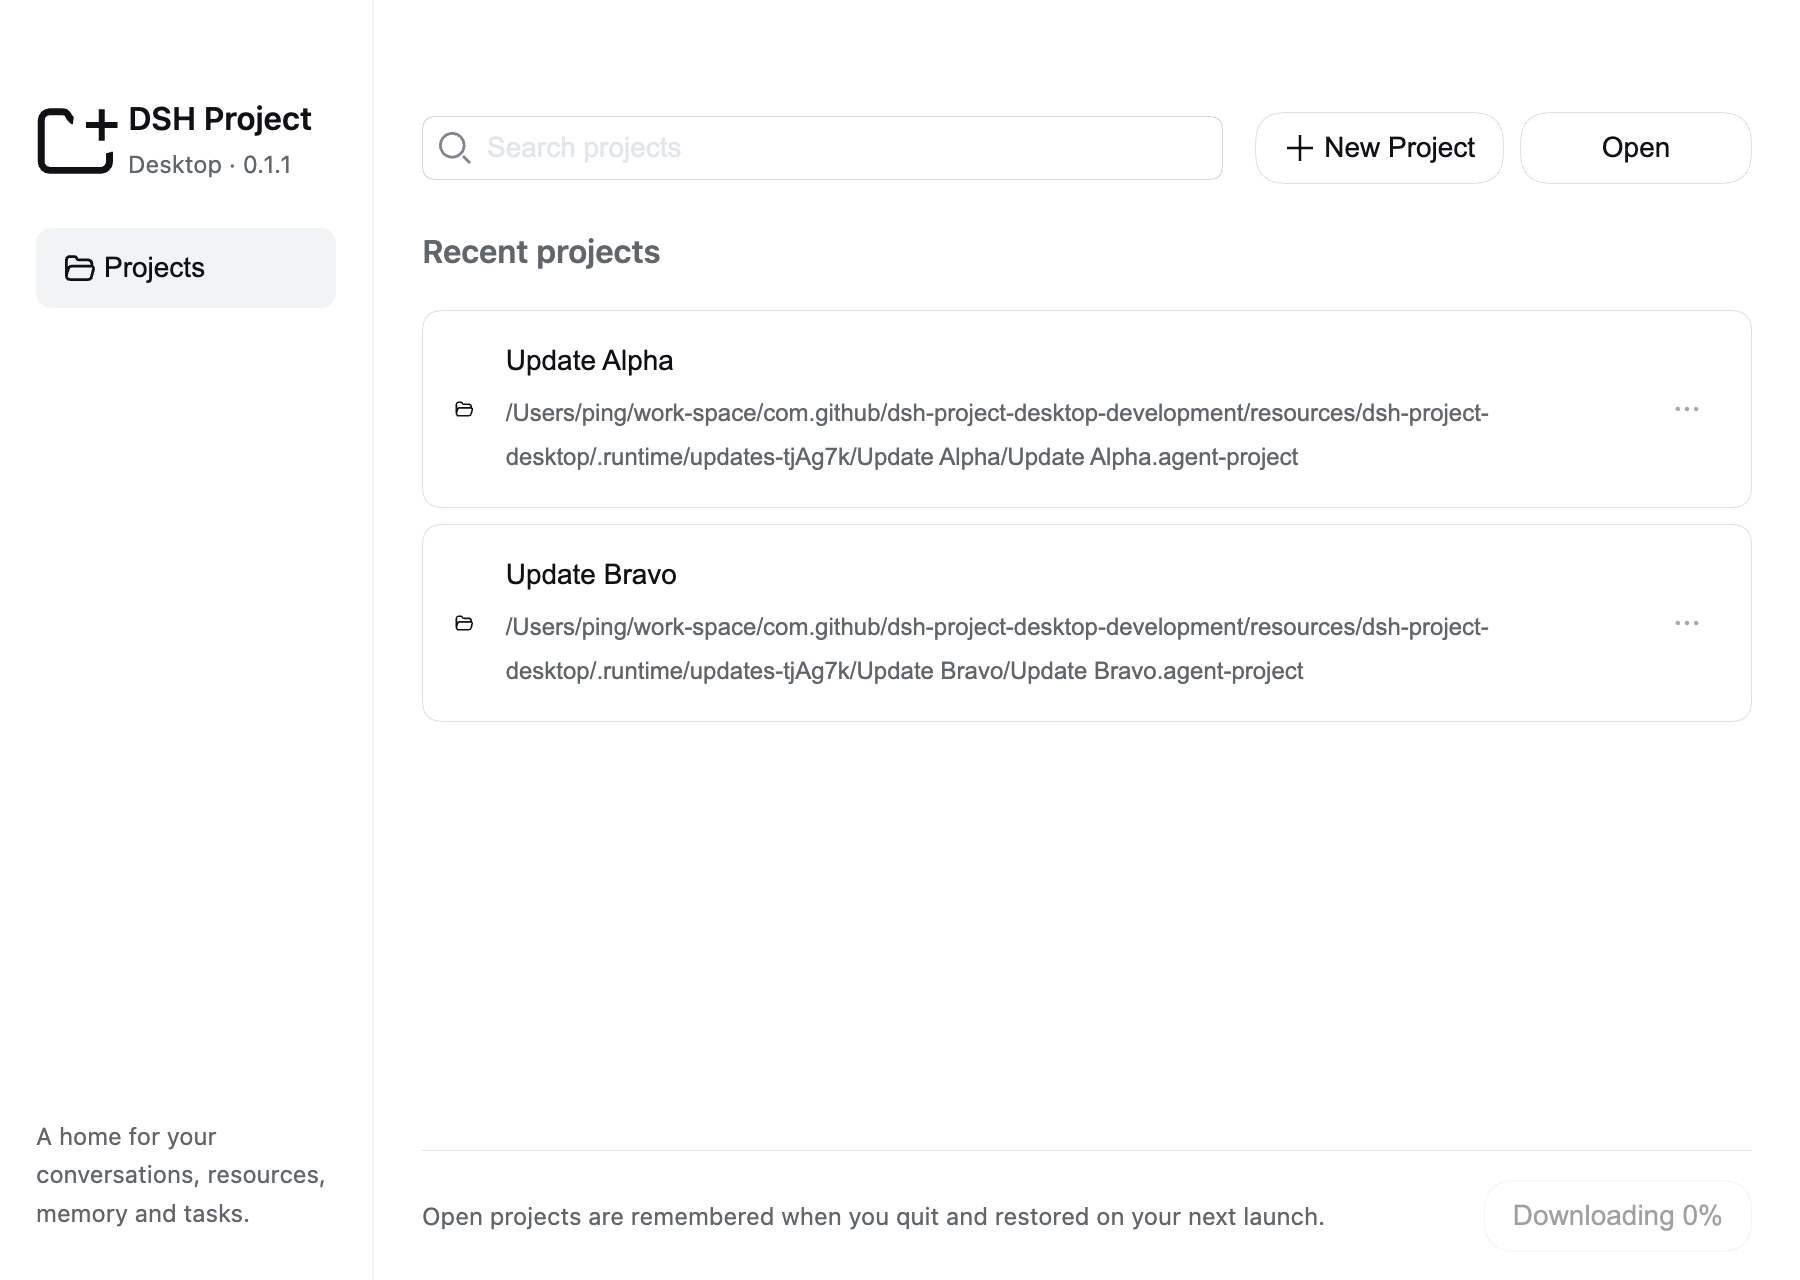
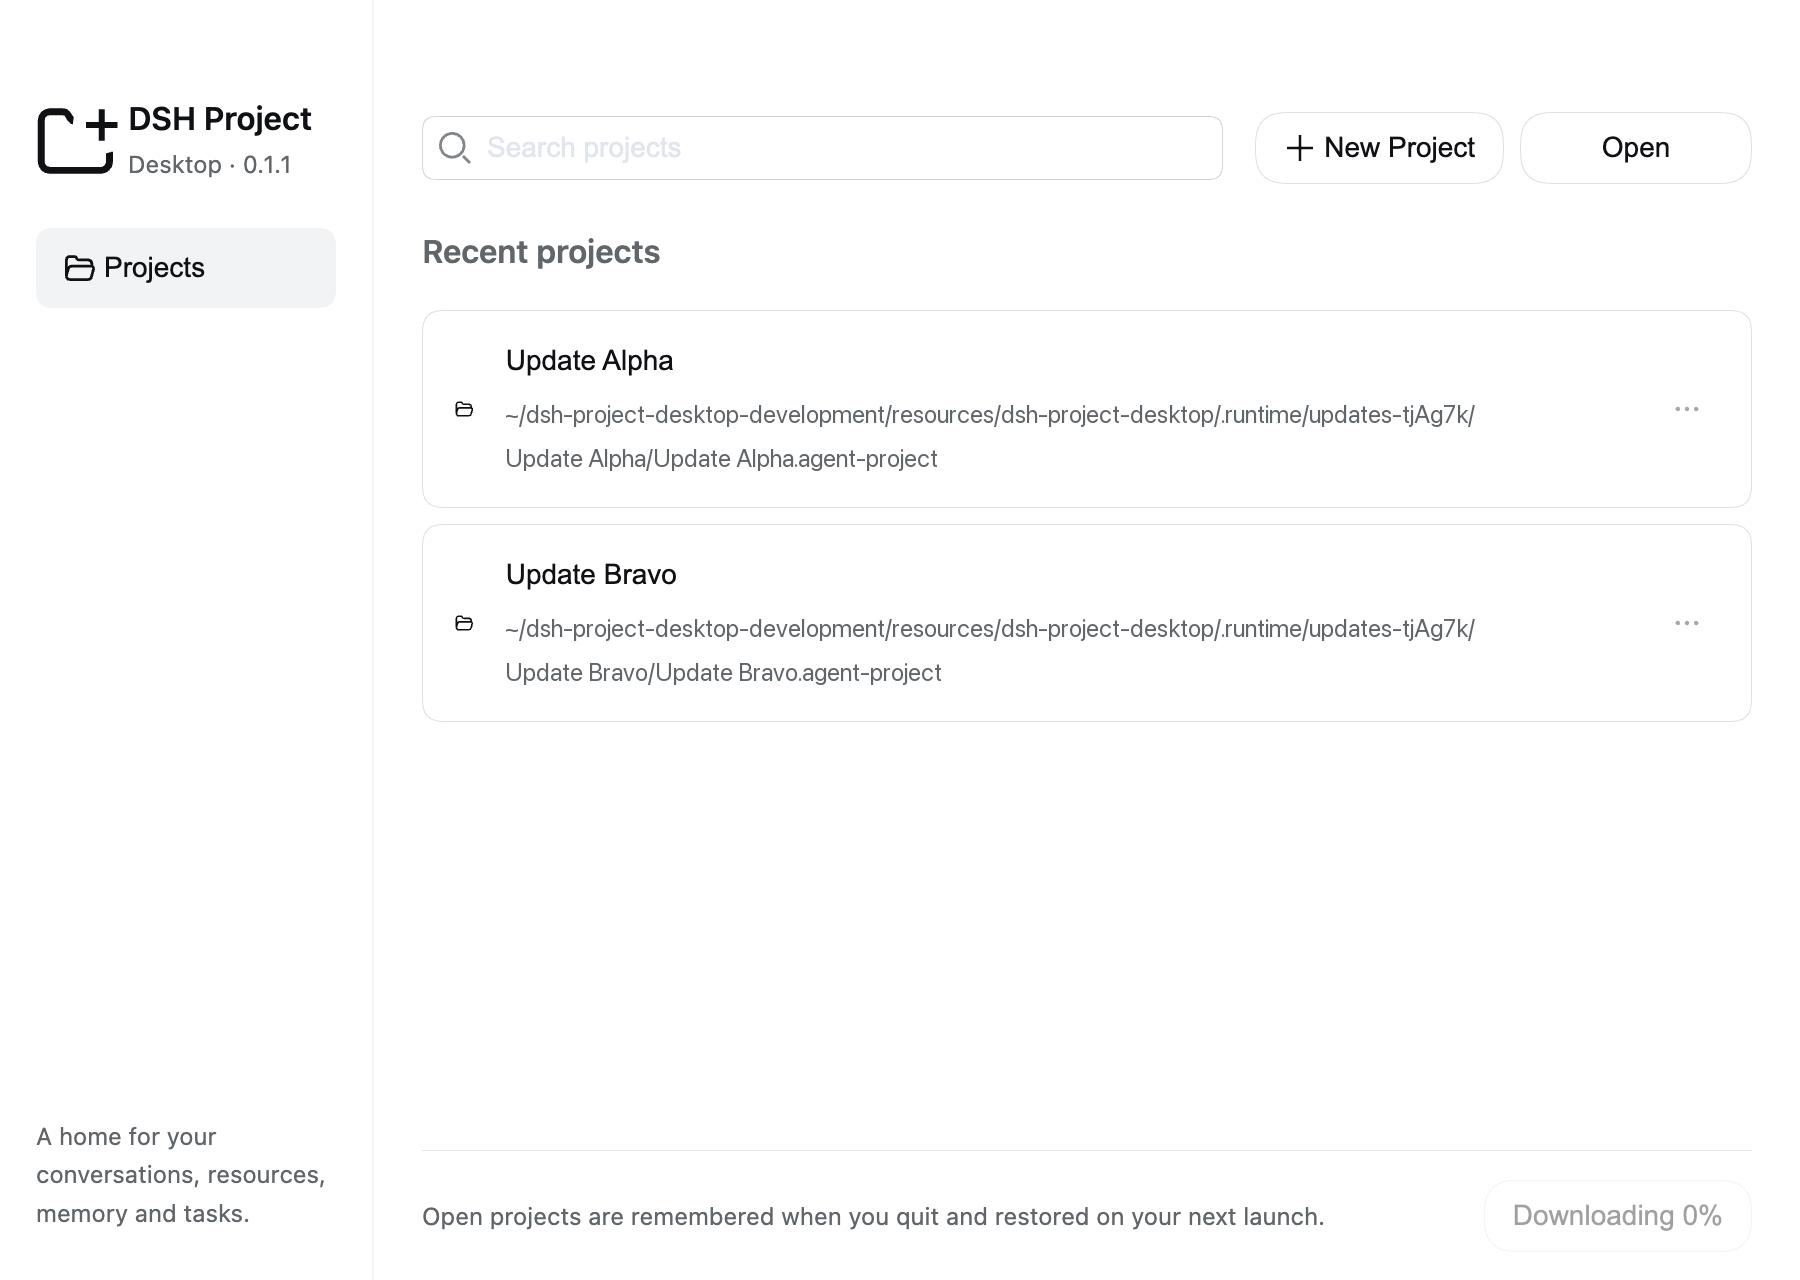
docs: redact local paths in screenshots, add license and readme
- 两张原生验收截图隐去本机绝对路径与用户名（改为 ~/ 开头的相对路径），
  保留按钮文案证据（正在下载 0% / Downloading 0%），RGBA 透明度不变
- 新增 LICENSE：与两个子仓库同口径的「源码可读、保留所有权利」声明
- 新增 README.md / README.en.md：说明工作区边界、关联仓库与许可状态
- .gitignore 增加 /.pnpm-store/，避免本地包缓存被误提交

Changed region(s): [[0.28, 0.4688, 0.84, 0.5312], [0.28, 0.3125, 0.84, 0.375]]

diff --git a/README.en.md b/README.en.md
@@ -1,0 +1,40 @@
+# dsh-project-desktop-development
+
+English · [简体中文](README.md)
+
+Development workspace for `dsh-project-desktop`. It holds project metadata, task records and working agreements that the DSH Project capability loads. **Product source code does not live here.**
+
+## Layout
+
+```text
+.
+├── AGENT.md                                      # Project-level agent instruction entry
+├── dsh-project-desktop-development.agent-project # Project manifest: resources and memory declarations
+├── memory/working-agreements.md                  # Working agreements and verification flow (loaded into context)
+├── tasks/<task name>/task.md                     # v3 task records, attachments under artifacts/
+├── skills/index.yaml                             # Project-level skills (currently empty)
+├── mcp/servers.yaml                              # Project-level MCP servers (currently empty)
+└── resources/                                    # Checkouts of the related repositories, not version controlled
+```
+
+## Related repositories
+
+Product source is maintained in two separate repositories. `resources/` here only holds their checkouts and is excluded by `.gitignore`, so it is never distributed with this repository:
+
+- [dsh-project-desktop](https://github.com/admintertar/dsh-project-desktop) — Electron shell and application layer: project launch experience, per-project window isolation, recovery and safe mode, update adapter.
+- [dsh-plugin-project](https://github.com/admintertar/dsh-plugin-project) — the project / resource / task / skill / MCP / memory plugin.
+
+Both are built on public upstreams, referenced read-only at pinned commits:
+
+- [deepseek-ai/deepseek-harness](https://github.com/deepseek-ai/deepseek-harness) (MIT)
+- [anywhere-labs/dsh-desktop](https://github.com/anywhere-labs/dsh-desktop) (MIT)
+
+This is an independent project, not an official release from DeepSeek or Anywhere Labs.
+
+## Task records
+
+`tasks/<task name>/task.md` records work independently of any conversation: objective, acceptance criteria, evidence chain and verification results. Attachments such as screenshots live in the sibling `artifacts/` directory. Local machine paths in those records have been redacted.
+
+## License
+
+All rights in this repository's original content are reserved; see [LICENSE](LICENSE). Public readability does not grant a license to use, modify or redistribute.

diff --git a/README.md b/README.md
@@ -1,0 +1,40 @@
+# dsh-project-desktop-development
+
+[English](README.en.md) · 简体中文
+
+`dsh-project-desktop` 的开发工作区。这里保存项目元数据、任务记录与工作约定，供 DSH 的 Project 能力加载；**产品源码不在此仓库**。
+
+## 目录结构
+
+```text
+.
+├── AGENT.md                                      # 项目级 Agent 指令入口
+├── dsh-project-desktop-development.agent-project # 项目清单：资源与记忆声明
+├── memory/working-agreements.md                  # 工作约定与验证流程（会加载进上下文）
+├── tasks/<任务名>/task.md                        # v3 任务记录，附件在同目录 artifacts/
+├── skills/index.yaml                             # 项目级技能（当前为空）
+├── mcp/servers.yaml                              # 项目级 MCP（当前为空）
+└── resources/                                    # 关联仓库的检出目录，不纳入版本控制
+```
+
+## 关联仓库
+
+产品源码在两个独立仓库中维护；本工作区的 `resources/` 只是它们的检出位置，已由 `.gitignore` 排除，不会随本仓库分发：
+
+- [dsh-project-desktop](https://github.com/admintertar/dsh-project-desktop) — Electron 壳与应用层：项目启动体验、多窗口隔离、恢复与安全模式、更新适配。
+- [dsh-plugin-project](https://github.com/admintertar/dsh-plugin-project) — project / resource / task / skill / MCP / memory 插件。
+
+两者基于公开上游构建，上游源码以固定提交只读引用：
+
+- [deepseek-ai/deepseek-harness](https://github.com/deepseek-ai/deepseek-harness)（MIT）
+- [anywhere-labs/dsh-desktop](https://github.com/anywhere-labs/dsh-desktop)（MIT）
+
+本项目为独立项目，不是 DeepSeek 或 Anywhere Labs 的官方发行版。
+
+## 任务记录
+
+`tasks/<任务名>/task.md` 是独立于会话的工作记录，包含目标、验收标准、证据链与验证结果；附件（截图等）放在同目录 `artifacts/`。记录中的本机路径已隐去。
+
+## 许可
+
+本仓库自有内容保留所有权利，详见 [LICENSE](LICENSE)。公开可读不等于授予使用、修改或再分发许可。
